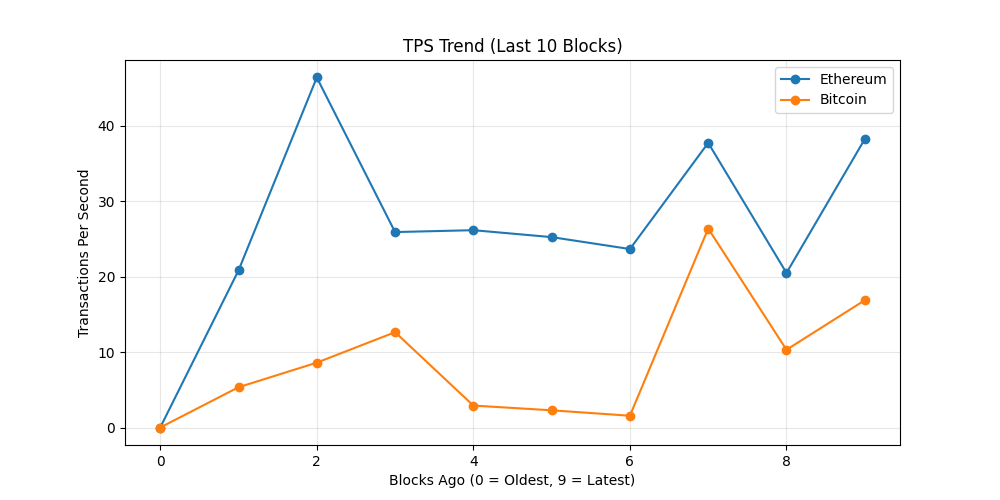
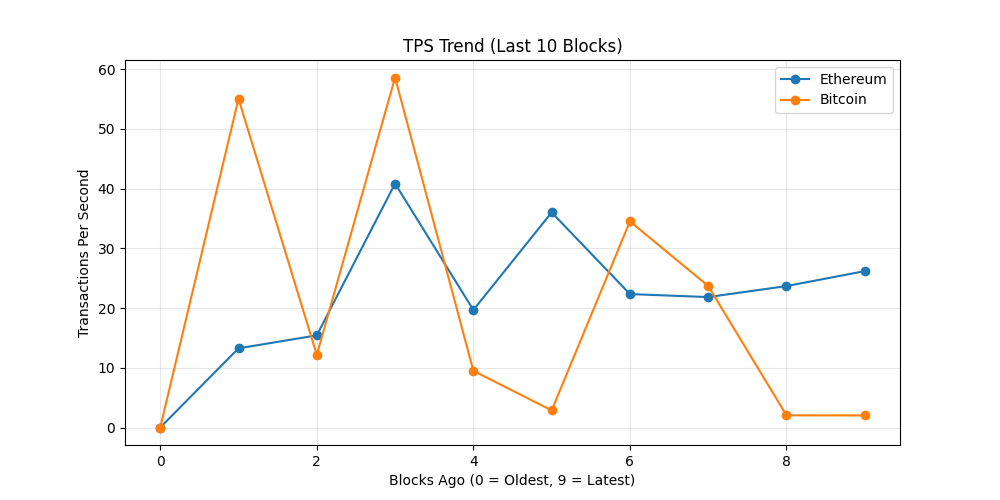
chore: update on-chain dashboard

diff --git a/README.md b/README.md
@@ -19,7 +19,7 @@ The README itself acts as the dashboard and is regenerated automatically on a 6 
 demonstrating a production-style, infrastructure-focused observability workflow rather
 than a traditional UI-driven approach.
 
-_Last updated: 2026-04-25 07:44 UTC_
+_Last updated: 2026-04-25 13:38 UTC_
 
 ## API Usage (GetBlock.io)
 - Calls used: **24**
@@ -27,8 +27,8 @@ _Last updated: 2026-04-25 07:44 UTC_
 ## Network Metrics
 | Chain | Block Height | TX Count | TPS (10 blk avg) | Block Util | Avg Fee |
 |------|-------------|----------|------------------|------------|---------|
-| Ethereum | 24955593 | 459 | 38.25 | 58.68% | 0.1 Gwei |
-| Bitcoin | 946547 | 4624 | 16.88 | 99.8% | N/A |
+| Ethereum | 24957360 | 314 | 26.17 | 53.86% | 0.7 Gwei |
+| Bitcoin | 946589 | 3027 | 2.02 | 99.79% | N/A |
 
 ## Visuals
 ### Transactions Trend
@@ -43,8 +43,11 @@ _Last updated: 2026-04-25 07:44 UTC_
 ## Whale Alerts (latest block)
 - Transaction hashes are truncated for readability.
 - Full hashes are available in `dashboards/metrics.json`
-- Bitcoin | 213.33 BTC | `0b2718c57a0c…`
-- Bitcoin | 350.26 BTC | `0732916648f9…`
+- Bitcoin | 546.09 BTC | `1c062a137cb1…`
+- Bitcoin | 1169.53 BTC | `2952ca8af713…`
+- Bitcoin | 105.0 BTC | `fd6d27450e81…`
+- Bitcoin | 105.0 BTC | `d3ffb17d8721…`
+- Bitcoin | 348.5 BTC | `dba6586b0c4f…`
 
 ## Run locally
 
